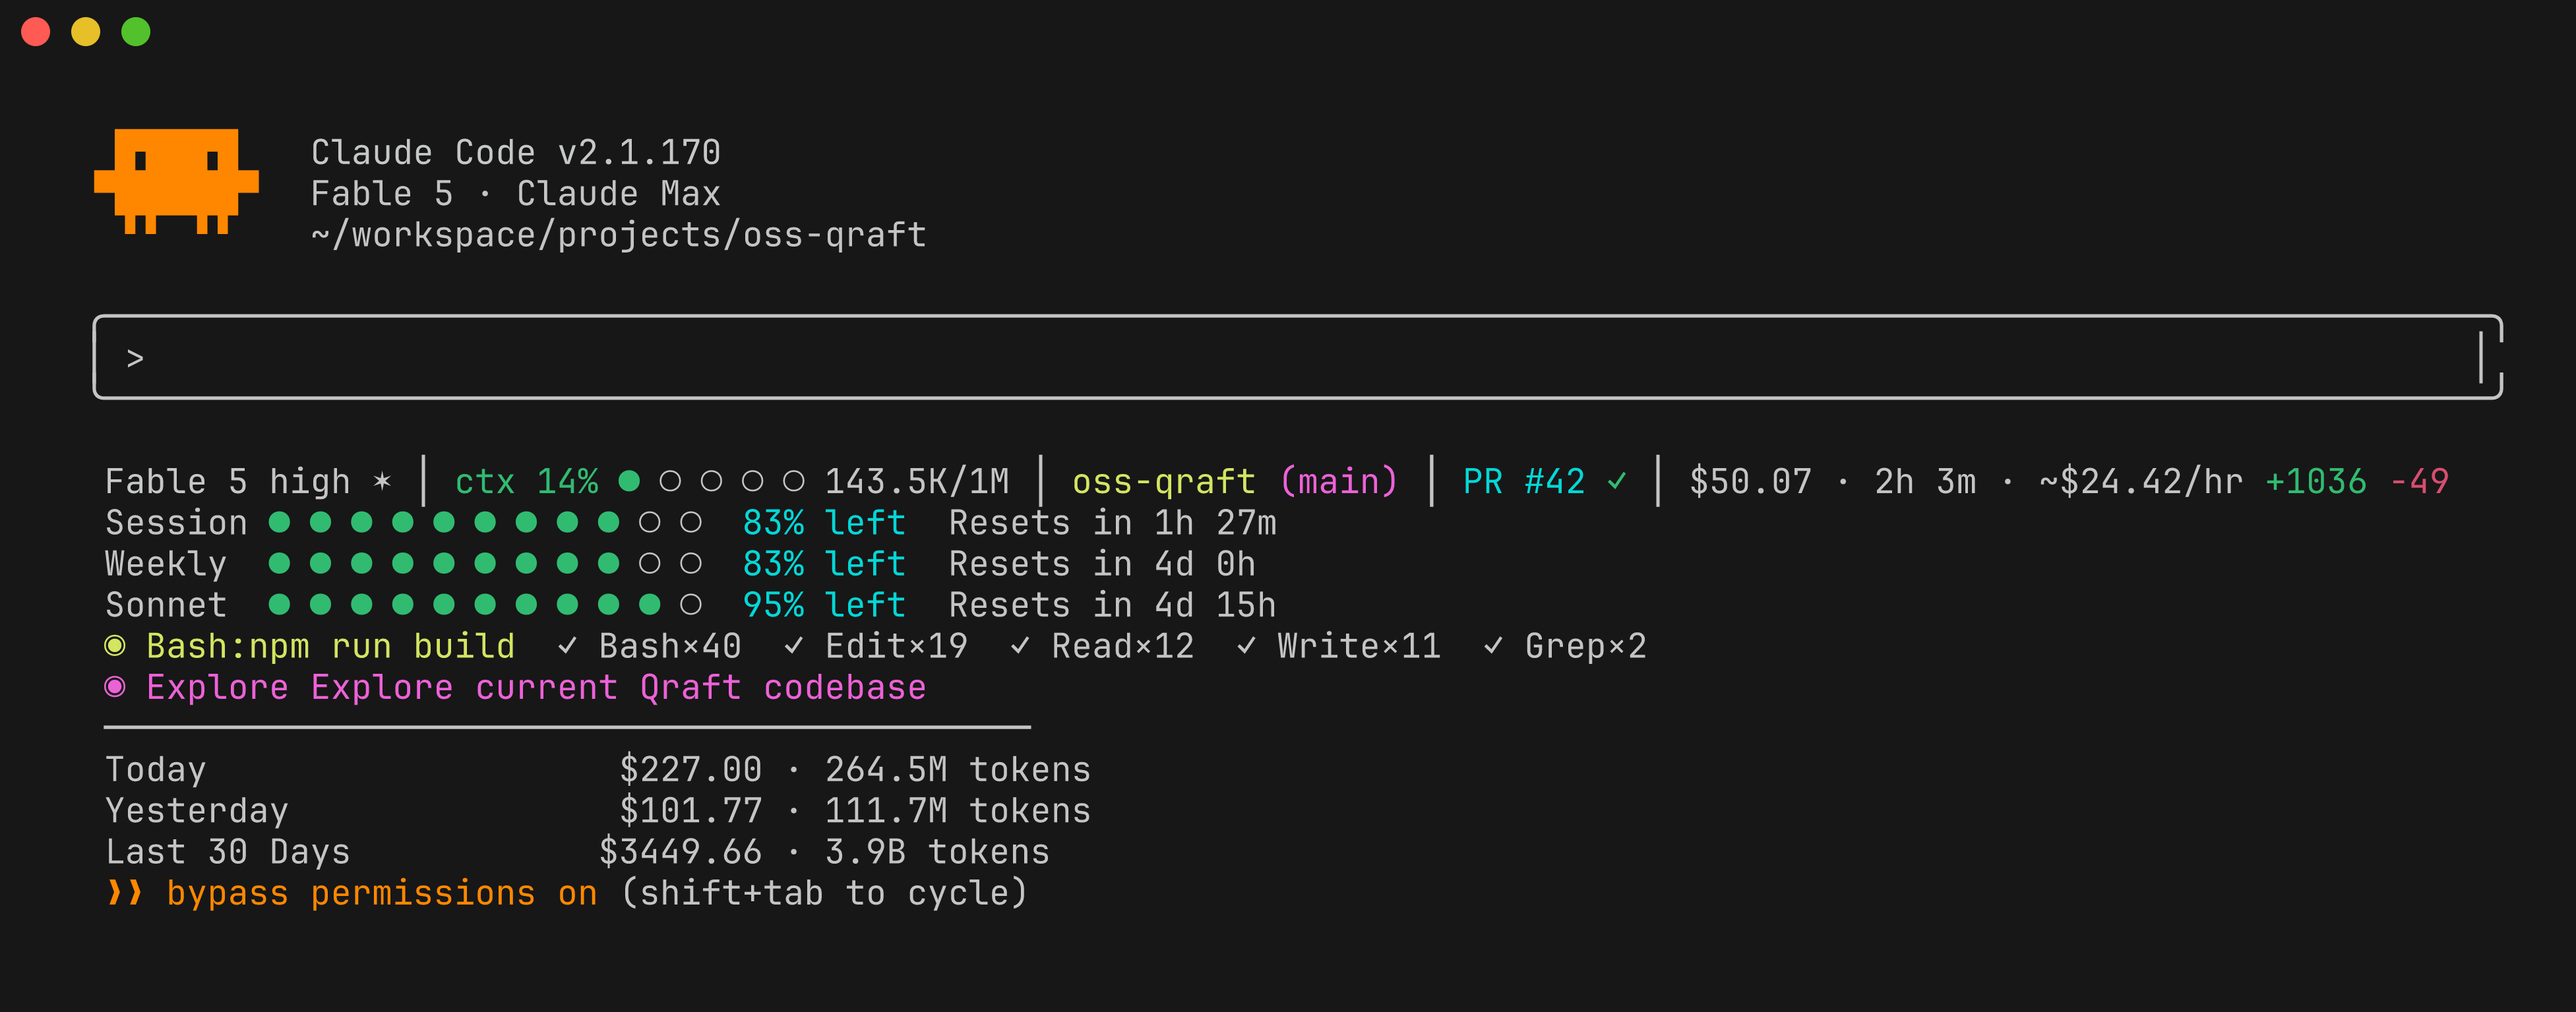
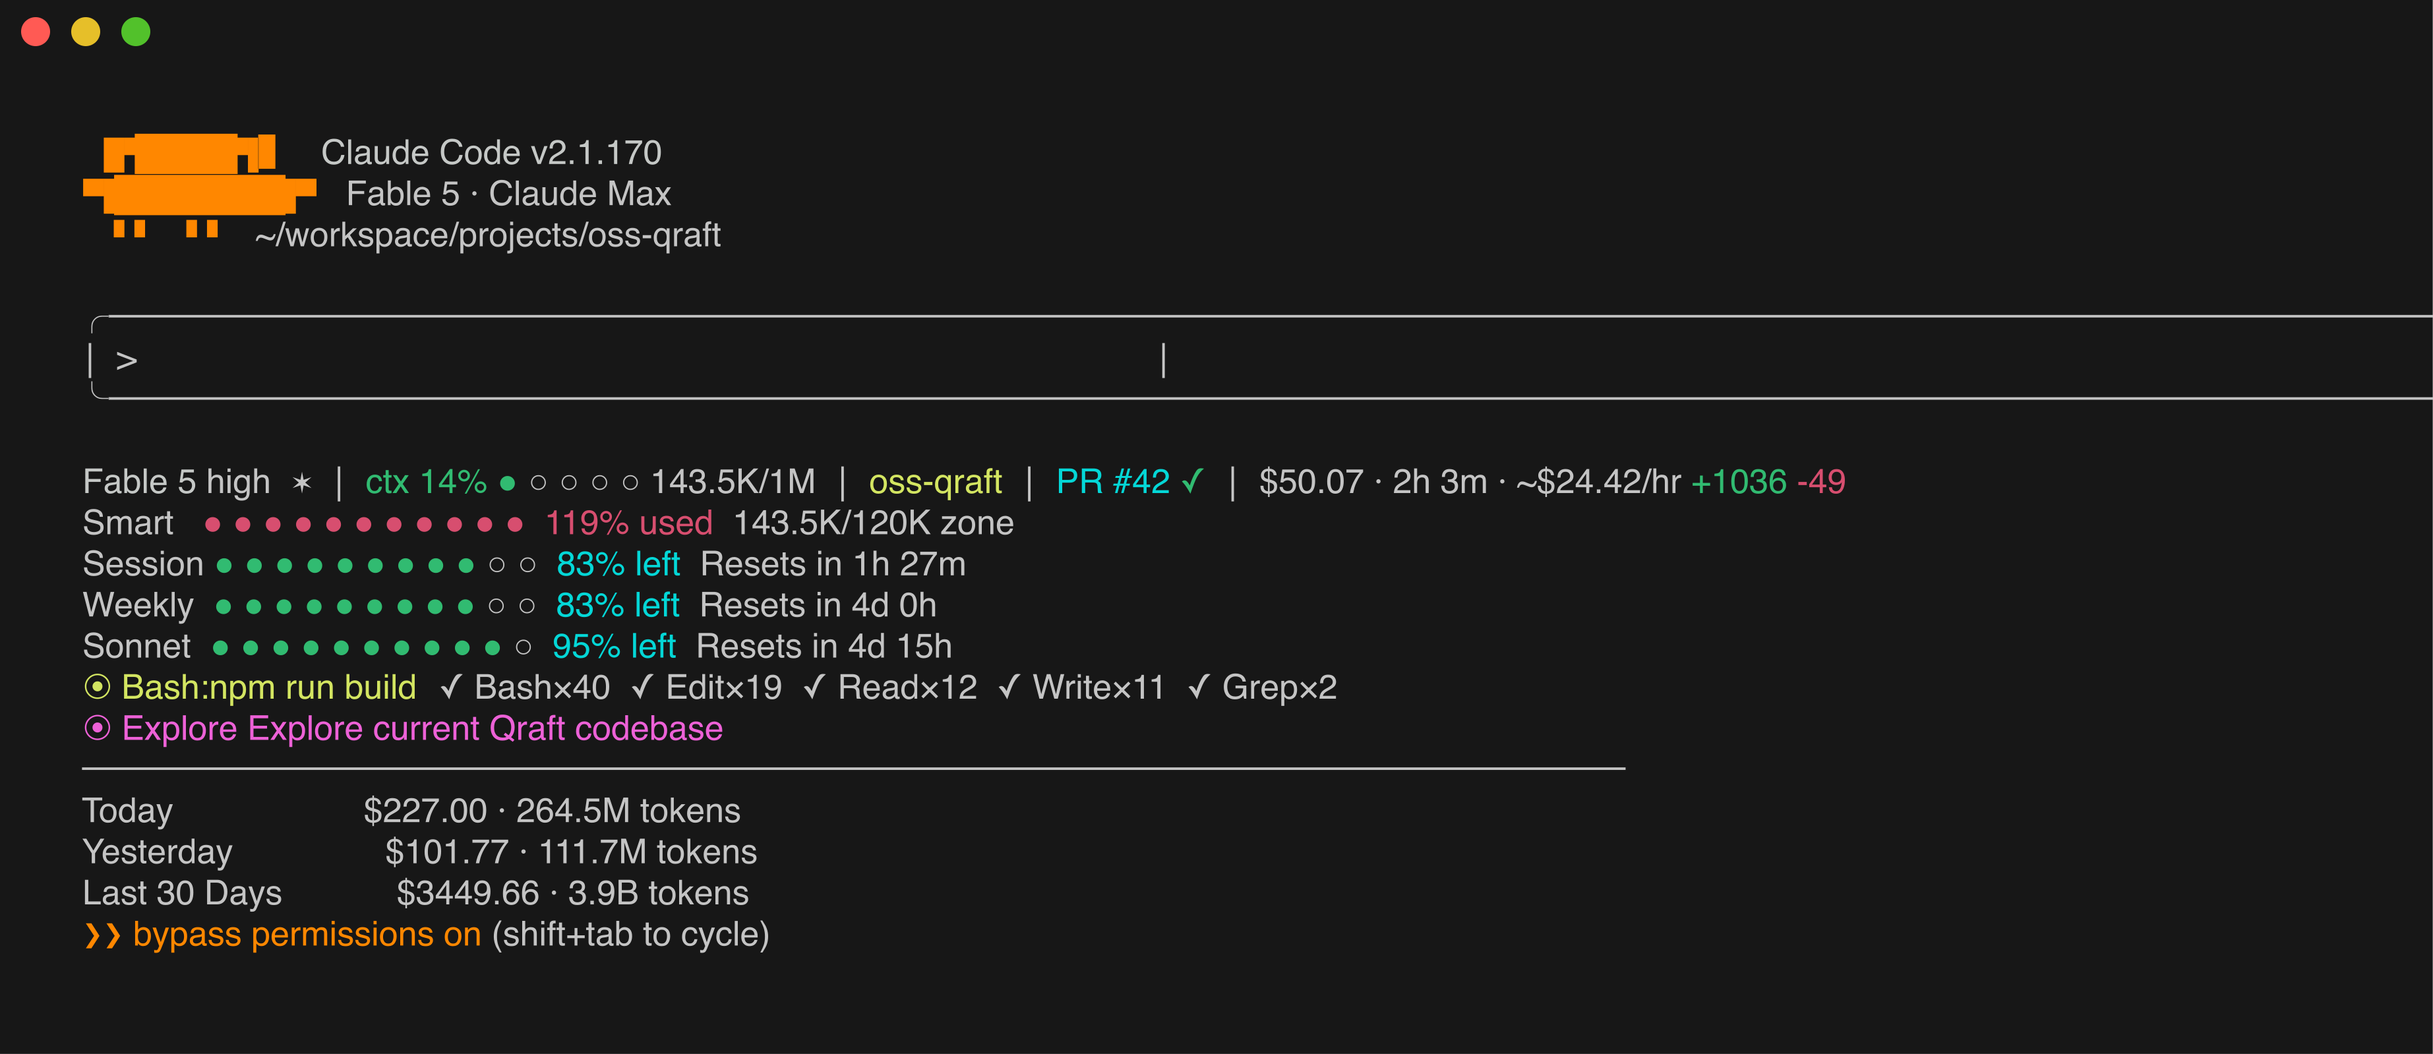
Release v1.7.0: show the smart zone the window hides
A 1M-token window makes `ctx 14%` look like there's room to spare, but the
span a model still reasons sharply over is ~120k — so the header can read
green while the model is already past the point where it thinks well.

Add a `Smart` row above the rate limits reporting usage against that zone
(`SMART_ZONE_TOKENS`, 0 to hide), green below 70% of it, yellow to the edge,
red past it. The header keeps measuring the window, so both readings stay
available.

The rate-limit rows keep the word `left` on the narrowest tier: without it
they're indistinguishable from the `Smart` row above, which fills by what's
*used* — the opposite sense.

Claude-Session: https://claude.ai/code/session_017f2B4sG9yXZw7Vt4dKoo1p

diff --git a/README.md b/README.md
@@ -44,6 +44,7 @@ This statusline fixes all of that.
 
 ```
   Fable 5 high ✦ │ ctx 14% ● ○ ○ ○ ○ 143.5K/1M │ oss-qraft (main) │ PR #42 ✓ │ $50.07 · 2h 3m · ~$24/hr +1036 -49
+  Smart   ● ● ● ● ● ● ● ● ● ● ● 119% used  143.5K/120K zone
   Session ● ● ● ● ● ● ● ● ○ ○  83% left  Resets in 1h 27m
   Weekly  ● ● ● ● ● ● ● ● ○ ○  83% left  Resets in 3d 23h
   Sonnet  ● ● ● ● ● ● ● ● ● ○  95% left  Resets in 4d 15h
@@ -59,6 +60,7 @@ This statusline fixes all of that.
 |---------|---------|
 | **Header** | Model + badges (⚡ fast mode, effort level, ✦ thinking, ◑ output style, ⛭ agent), context % with mini-bar and token count (143.5K/1M, marked ⚠200k+ past the premium threshold), project, git branch + dirty + ↑ahead ↓behind, PR # + review state (clickable), session cost · duration · ~$/hr burn rate, lines +/-, optional session name |
 | **Compaction Warning** | Red warning when context exceeds critical threshold |
+| **Smart Zone** | How much of the ~120k-token span the model still reasons sharply over has been used — the number a 1M window hides. Gauge + % used + tokens/zone |
 | **Rate Limits** | Session (5h) / Weekly (7d) / per-model buckets (Opus, Sonnet, Fable, … auto-detected) / Extra usage — gauge bar + % left + reset time |
 | **Tool Activity** | Running tools, completed tool counts, active agents |
 | **Token Costs** | Today / Yesterday / Last 30 days — cost & token count |
@@ -171,6 +173,7 @@ SHOW_SESSION_NAME=false
 # Context thresholds
 CONTEXT_WARN_PCT=30       # Yellow warning
 CONTEXT_CRIT_PCT=70       # Red + compaction warning
+SMART_ZONE_TOKENS=120000  # Size of the "Smart" row's zone (0 = hide the row)
 
 # Budget alert (0 = disabled)
 DAILY_BUDGET=0
@@ -189,6 +192,7 @@ DAILY_BUDGET=0
 | `SHOW_SESSION_NAME` | `false` | Show the `/rename` session name in the header |
 | `CONTEXT_WARN_PCT` | `30` | Context % threshold for yellow |
 | `CONTEXT_CRIT_PCT` | `70` | Context % threshold for red + compaction warning |
+| `SMART_ZONE_TOKENS` | `120000` | Smart-zone size for the `Smart` row — the span the model still reasons sharply over, far below a 1M window (`0` = hide the row) |
 | `DAILY_BUDGET` | `0` | Daily budget alert in USD (0 = disabled) |
 
 Every option can be set in the conf file **or** as an environment variable (the conf

diff --git a/CHANGELOG.md b/CHANGELOG.md
@@ -6,6 +6,23 @@ All notable changes to this project are documented here. The format is based on
 
 ## [Unreleased]
 
+## [1.7.0] — 2026-07-28
+
+### Added
+- **Smart zone row.** A `Smart` line above the rate limits shows how much of the
+  *smart zone* — the ~120k-token span a model still reasons sharply over, far
+  below a 1M advertised window — the session has used. The header keeps saying
+  how full the window is; this says how much of it the model reads well. Sized
+  via `SMART_ZONE_TOKENS` (`0` hides the row), green below 70% of the zone,
+  yellow to the edge, red past it.
+
+### Changed
+- The rate-limit rows keep the word `left` on the narrowest tier, so they can't
+  be mistaken for the `Smart` row above them, which fills by what's *used*.
+
+### Fixed
+- A non-numeric `SMART_ZONE_TOKENS` now prints a dim hint instead of dropping
+  the row without a word.
 ## [1.6.0] — 2026-07-13
 
 ### Changed
@@ -135,6 +152,8 @@ All notable changes to this project are documented here. The format is based on
   tool/agent activity, and daily/monthly token costs. Plugin marketplace support,
   one-liner installer, and Windows (Git Bash / MSYS2 / WSL) support.
 
+[1.7.0]: https://github.com/JungHoonGhae/claude-statusline/compare/v1.6.0...v1.7.0
+[1.6.0]: https://github.com/JungHoonGhae/claude-statusline/compare/v1.5.0...v1.6.0
 [1.5.0]: https://github.com/JungHoonGhae/claude-statusline/compare/v1.4.2...v1.5.0
 [1.4.2]: https://github.com/JungHoonGhae/claude-statusline/compare/v1.4.1...v1.4.2
 [1.4.1]: https://github.com/JungHoonGhae/claude-statusline/releases/tag/v1.4.1
